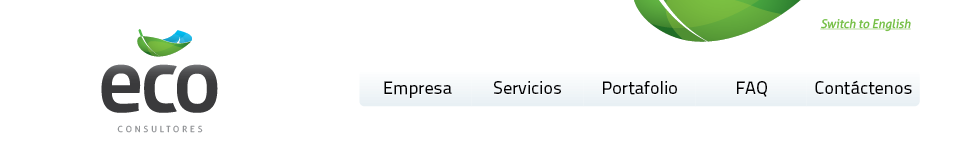
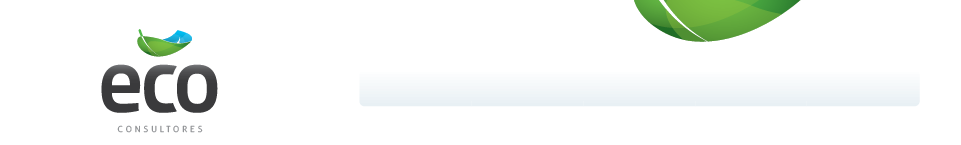
primera prueba de menu

diff --git a/media/css/estilo.css b/media/css/estilo.css
@@ -18,12 +18,21 @@
 	}
 
 body{background:url(/medios/img/fondo.jpg) fixed; margin:0px auto;}
+a{text-decoration:none; display:block;}
+a:hover{text-decoration:underline;}
 #container{width:960px; margin:0px auto;}
-#menu{width:960px; float:left; height:145px; background:url(/medios/img/menu_bg.png)}
+#menu_container{width:960px; height:145px; float:left; background:url(/medios/img/menu_bg.png)}
+#language_switch_button{width:960px; height:40px; float:right;}
+#language_switch_button a{float:right; margin:18px 50px 0 0 ; font-size:9pt; color:#66A83A; font-style:italic;}
+#menu{float:right; margin:15px 48px 0 0;}
+#menu li{display:inline-block; font-size:13pt;}
+#menu li a{padding:8px 22px; background:#6CF; color:#000;}
+#menu li a:hover{background:#66C;}
+
 #video_container{width:560px; height:370px; position:absolute; background:url(/medios/img/video_reflect_bg.png) bottom no-repeat; z-index:1000; margin-left:360px; top:128px;}
 #video_container .video{width:560px; height:330px; background:#000;}
 
-#header{width:960px; height:284px; float:left;}
+#header{width:960px; float:left;}
 #content{width:960px; float:left;}
 
 #footer{

diff --git a/templates/base.html b/templates/base.html
@@ -13,7 +13,20 @@
 <body>
 
 <div id="container">
-<div id="menu"></div>
+<div id="menu_container">
+	<div id="language_switch_button">
+    <a href="#">Switch to English</a>
+    </div>
+    <div id="menu">
+    <ul>
+    	<li><a href="/empresa/">Empresa</a></li>
+        <li><a href="/servicios/">Servicios</a></li>
+        <li><a href="/portafolio/">Portafolio</a></li>
+        <li><a href="/faq/">FAQ</a></li>
+        <li><a href="/contacto/">Contactenos</a></li>
+    </ul>
+    </div>
+</div>
 <div id="header">{%block header%}{%endblock%}</div>
 <div id="content">{%block content%}{%endblock%}</div>
 
